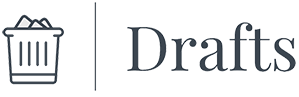
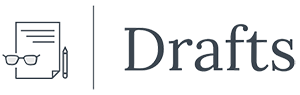
email trash supoort

Changed region(s): [[0.3913, 0.2105, 0.9933, 0.7579], [0.0, 0.1474, 0.2408, 0.8842], [0.301, 0.0211, 0.3311, 0.9474]]

diff --git a/js/apps/email/cmps/email-nav.jsx b/js/apps/email/cmps/email-nav.jsx
@@ -9,6 +9,7 @@ export function EmailNav ({setCriteria }){
             <Link ><img src="assets/css/apps/email/img/starred-icon.png"/></Link>
             <Link to="email/sent" onClick={() => { setCriteria('sent') }}><img src="assets/css/apps/email/img/sent-mail-icon.png"/></Link>
             <Link to='email/drafts' onClick={() => { setCriteria('draft') }}><img src="assets/css/apps/email/img/drafts-icon.png"/></Link>
+            <Link to='email/trash' onClick={() => { setCriteria('trash') }}><img src="assets/css/apps/email/img/trash-icon.png"/></Link>
 
         </section>
         );

diff --git a/assets/css/apps/email/email-app.css b/assets/css/apps/email/email-app.css
@@ -33,7 +33,7 @@
 
 
 .email-navbar img{
-    height: 2.5vh;
+    height: 3vh;
     margin-inline-start: 1vh;
     margin-block-end: 1vh;
 }
@@ -88,7 +88,7 @@
 @media (min-width: 540px) {
 
  .email-navbar img{
-    height: 2.5vh;
+    height: 4vh;
  }
 
 .email-navbar .email-add img{
